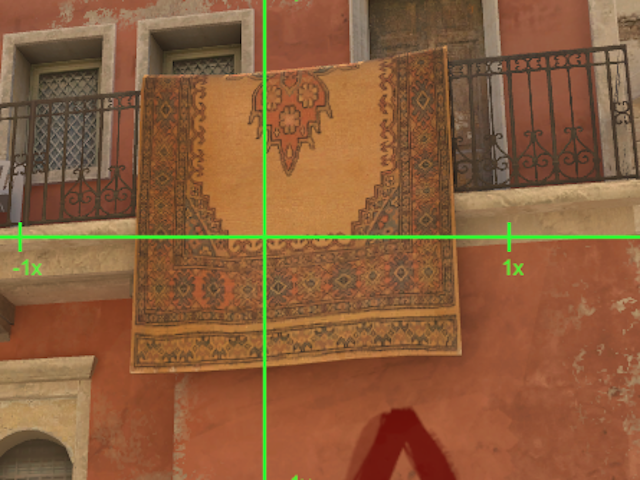
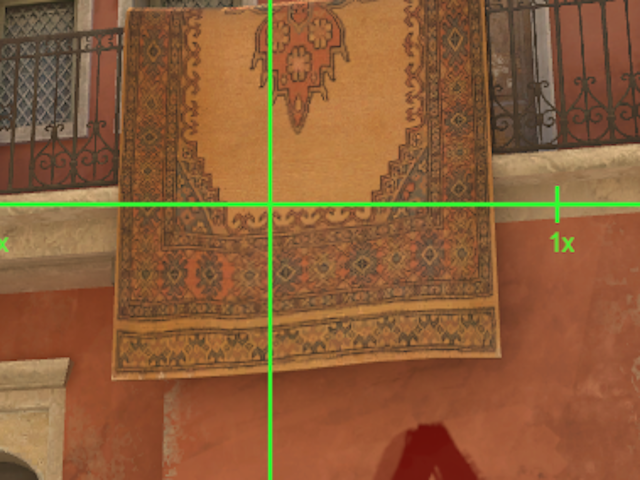
mirage improved visible aim

diff --git a/app/src/data/maps/mirage/lineups.ts b/app/src/data/maps/mirage/lineups.ts
@@ -50,7 +50,7 @@ export const mirageLineups = [
       y: 328,
     },
     setPos:
-      "setpos 1422.968506 -55.968750 -104.128754;setang -20.644539 -168.514923 0.000000",
+      "setpos 1422.967041 -55.934326 -104.128754;setang -20.803108 -168.535034 0.000000",
   },
   {
     name: "Short from spawn",
